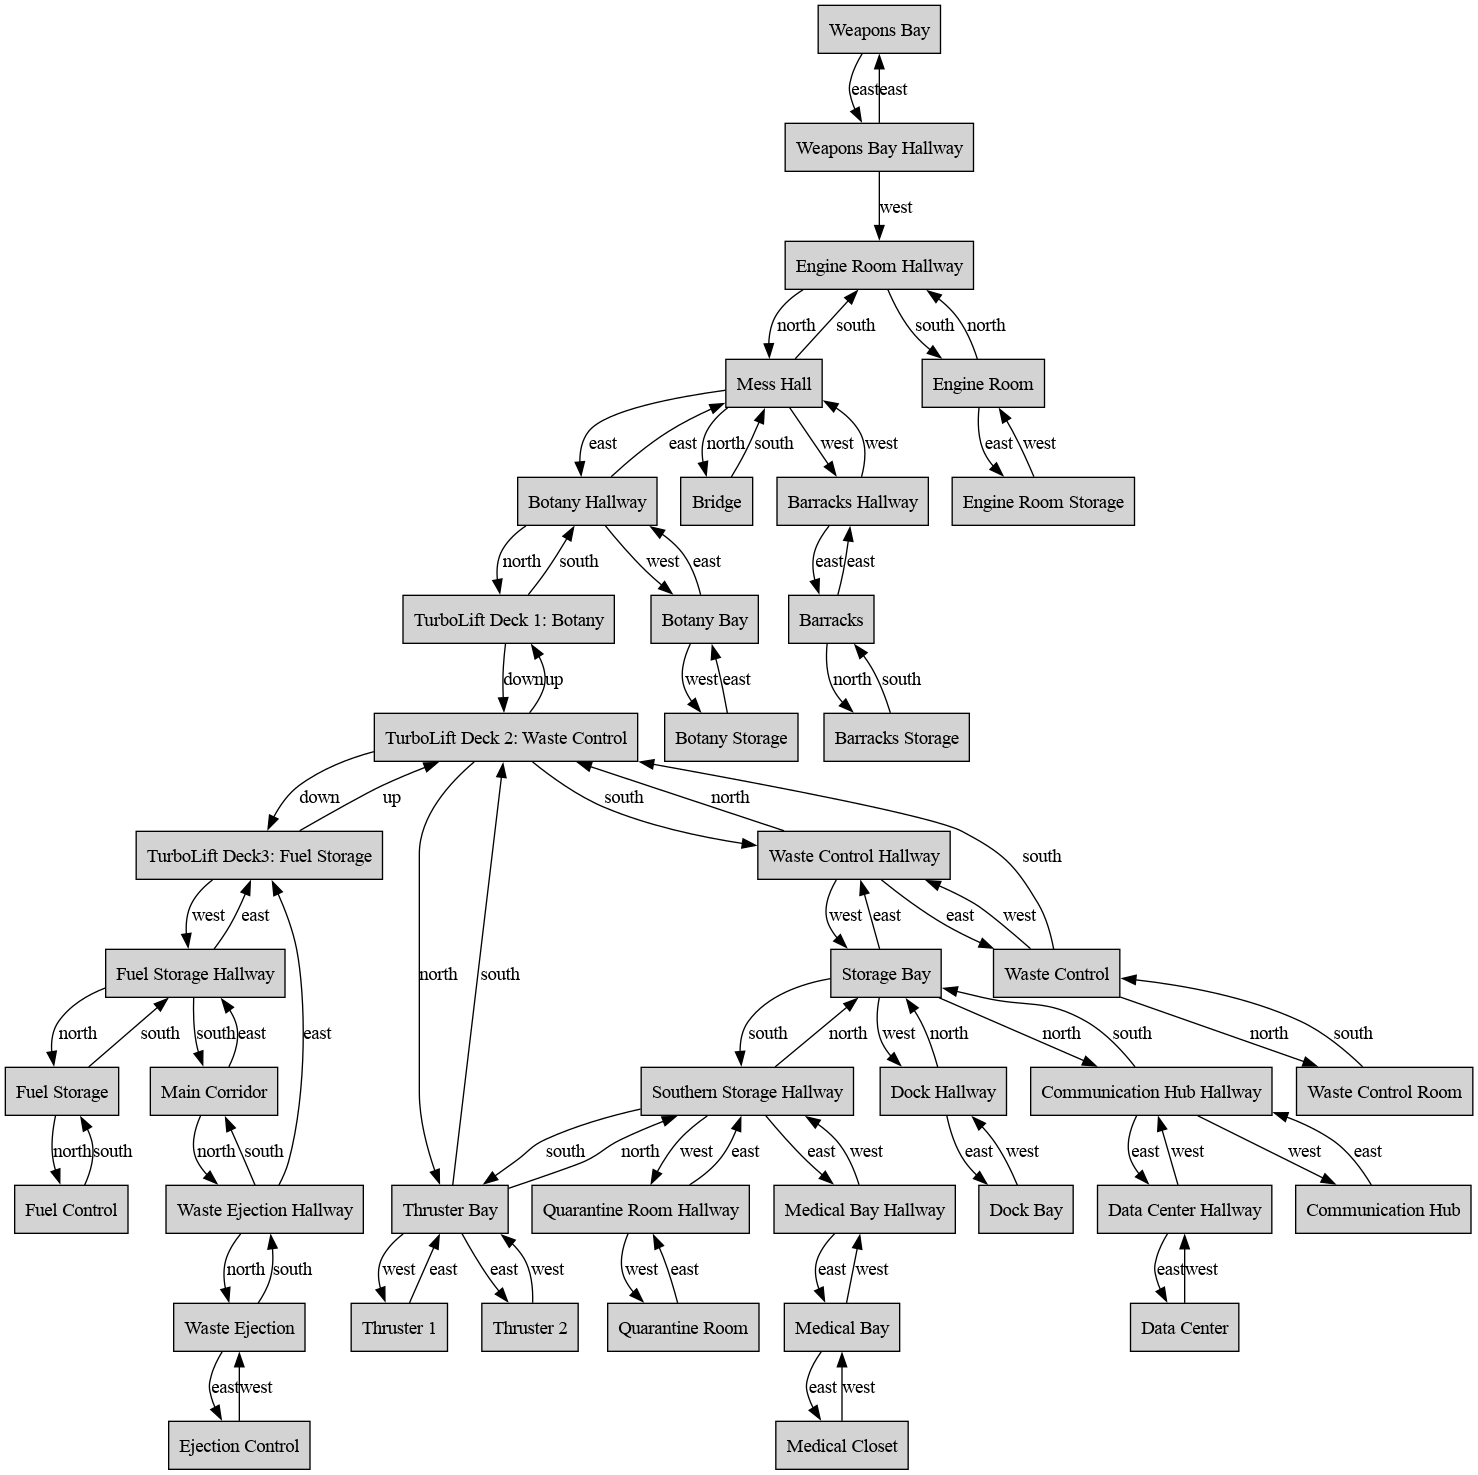
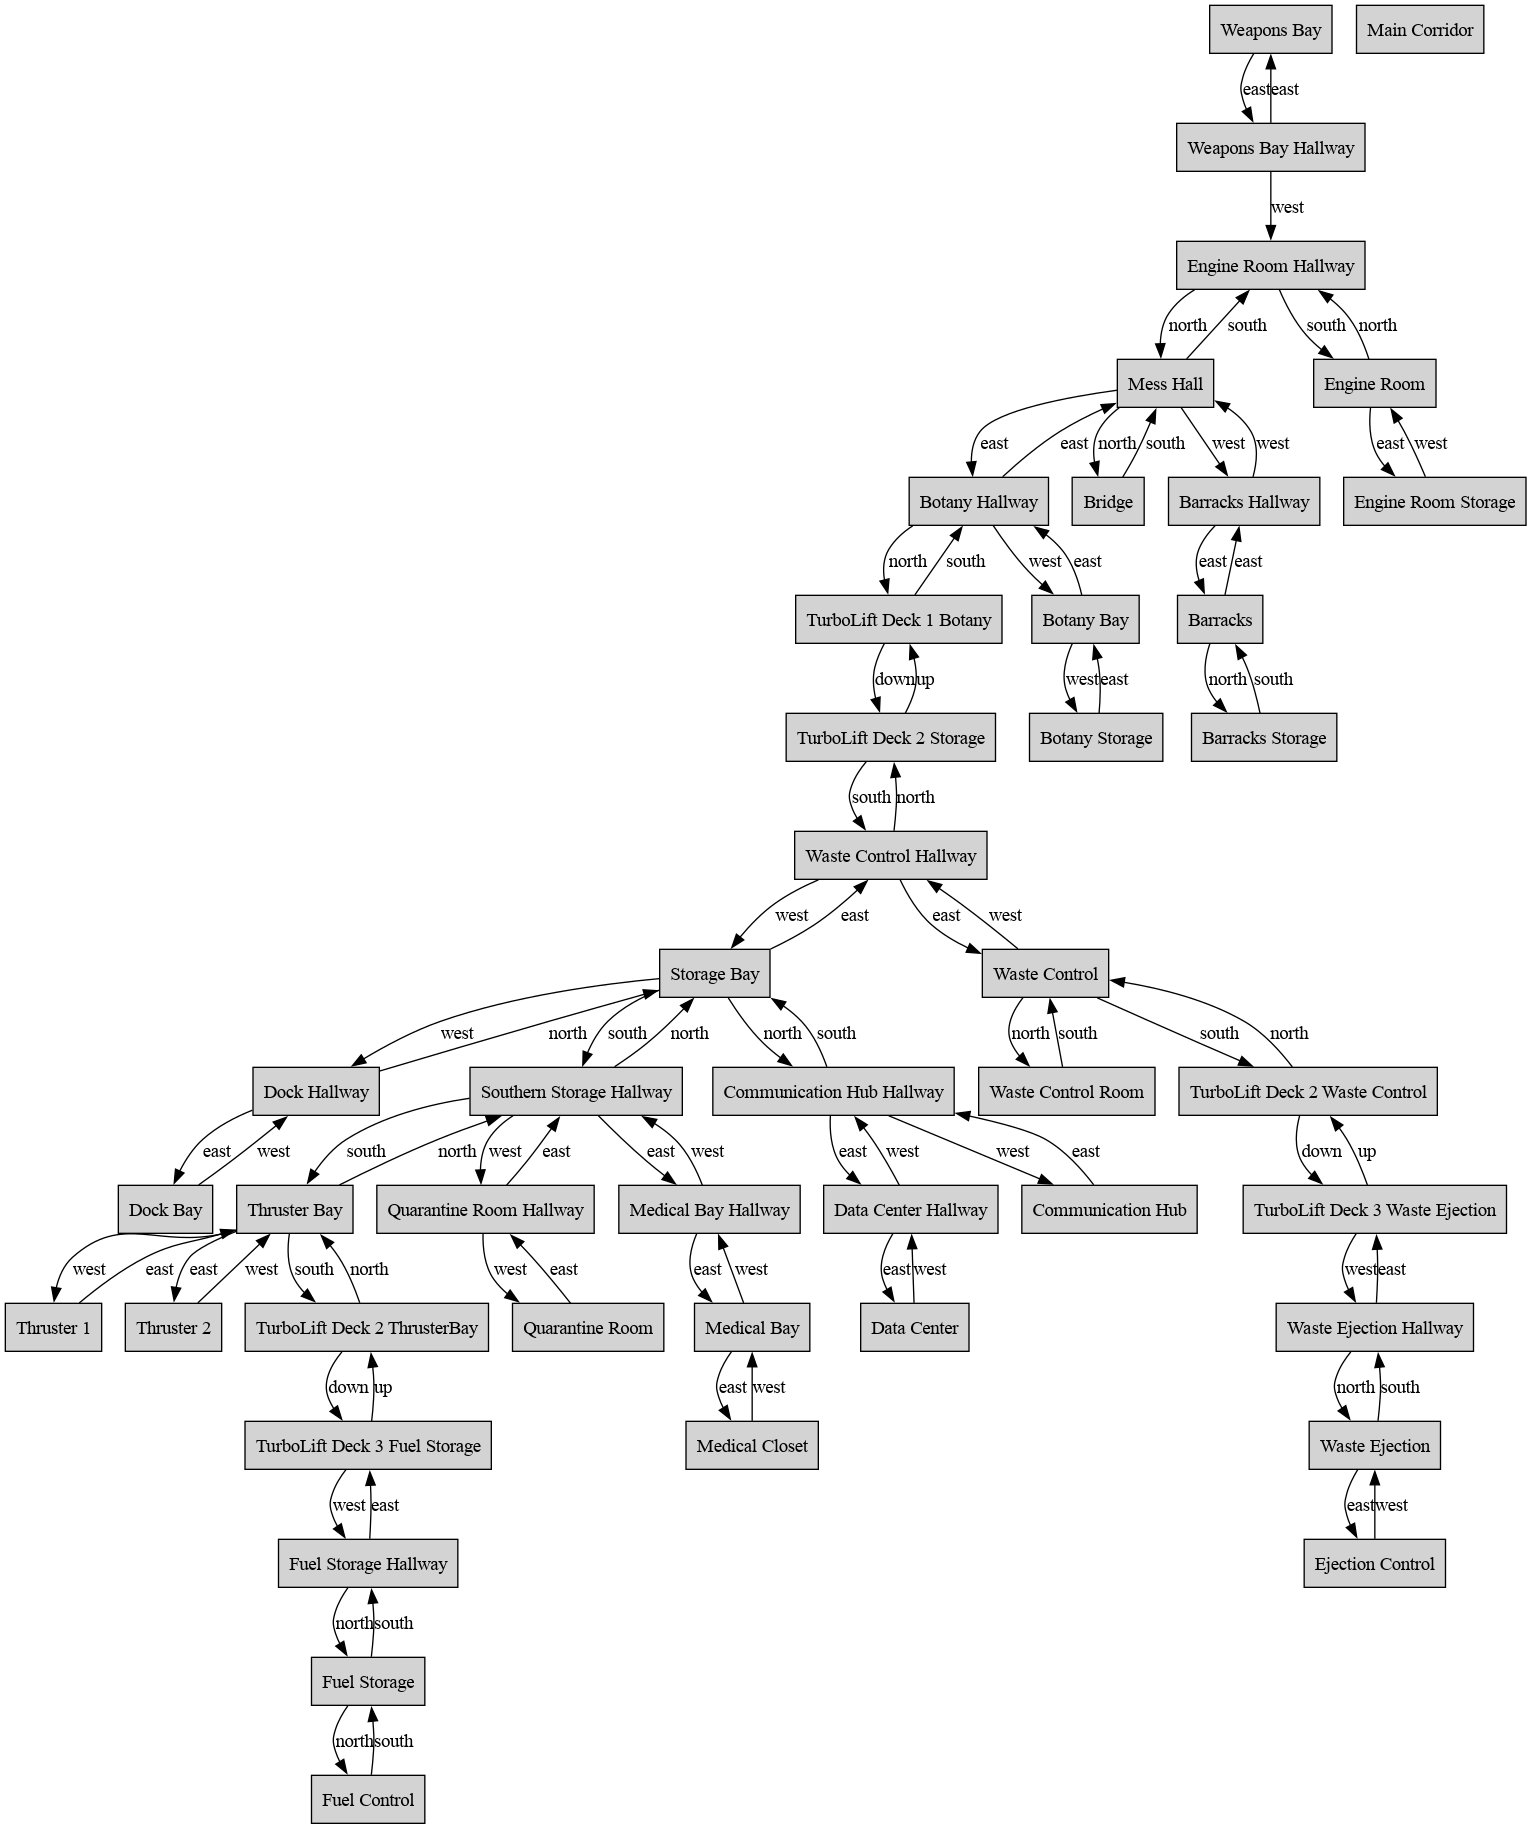
name fix

Changed region(s): [[0.0, 0.0, 1.0, 0.998]]

diff --git a/src/main/java/text_adventure/World.java b/src/main/java/text_adventure/World.java
@@ -201,12 +201,12 @@ public class World {
 
         // Turbo lifts 
 
-        Room turboLiftDeck1hallwayBotany = createRoom("TurboLift Deck 1: Botany","TurboLift that goes down to the storage hallway on Deck 2", null);
-        Room turboLiftDeck2hallwayWaste = createRoom("TurboLift Deck 2: Storage", "Turbo lift that goes up to the botany hallway on Deck 1", null);
-        Room turboLiftDeck2ThrusterBay = createRoom("TurboLift Deck 2: ThrusterBay", "Turbo lift that goes down to Fuel Storage on Deck 3", null);
-        Room turboLiftDeck2WasteControl = createRoom("TurboLift Deck 2: Waste Control", "Turbo lift that goes down to Waste Ejection on Deck 3", null);
-        Room turboLiftDeck3FuelStorage = createRoom("TurboLift Deck 3: Fuel Storage", "Turbo lift that goes up to the Thruster bay on Deck 2", null);
-        Room turboLiftDeck3WasteEjection = createRoom("TurboLift Deck 3: Waste Ejection", "Turbo lift that goes up to Waste Control on Deck 2", null);
+        Room turboLiftDeck1hallwayBotany = createRoom("TurboLift Deck 1 Botany","TurboLift that goes down to the storage hallway on Deck 2", null);
+        Room turboLiftDeck2hallwayWaste = createRoom("TurboLift Deck 2 Storage", "Turbo lift that goes up to the botany hallway on Deck 1", null);
+        Room turboLiftDeck2ThrusterBay = createRoom("TurboLift Deck 2 ThrusterBay", "Turbo lift that goes down to Fuel Storage on Deck 3", null);
+        Room turboLiftDeck2WasteControl = createRoom("TurboLift Deck 2 Waste Control", "Turbo lift that goes down to Waste Ejection on Deck 3", null);
+        Room turboLiftDeck3FuelStorage = createRoom("TurboLift Deck 3 Fuel Storage", "Turbo lift that goes up to the Thruster bay on Deck 2", null);
+        Room turboLiftDeck3WasteEjection = createRoom("TurboLift Deck 3 Waste Ejection", "Turbo lift that goes up to Waste Control on Deck 2", null);
 
 
         // Floor 1 connections (N, S, E, W)
@@ -234,7 +234,6 @@ public class World {
 
         dataCenter.setExits(null, null, null , hallwayData);
         hallwayData.setExits(null, null, dataCenter, hallwayCommunication);
-
         medicalBay.setExits(null, null, medicalCloset, hallwayMedical);
         medicalCloset.setExits(null, null, null, medicalBay);
         hallwayMedical.setExits(null, null, medicalBay , hallwayStorage);

diff --git a/src/test/java/Deck3TraversalTest.java b/src/test/java/Deck3TraversalTest.java
@@ -52,7 +52,7 @@ public class Deck3TraversalTest {
     public void testFuelStorageLiftStartingLocation() {
         navigateToFuelStorageLift();
         Room currentRoom = player.getCurrentLocation();
-        assertEquals("TurboLift Deck 3: Fuel Storage", currentRoom.getName());
+        assertEquals("TurboLift Deck 3 Fuel Storage", currentRoom.getName());
     }
 
     // Test starting position at Waste Ejection TurboLift
@@ -60,7 +60,7 @@ public class Deck3TraversalTest {
     public void testWasteEjectionLiftStartingLocation() {
         navigateToWasteEjectionLift();
         Room currentRoom = player.getCurrentLocation();
-        assertEquals("TurboLift Deck 3: Waste Ejection", currentRoom.getName());
+        assertEquals("TurboLift Deck 3 Waste Ejection", currentRoom.getName());
     }
 
     // Test path from Fuel Storage TurboLift to Fuel Storage
@@ -150,7 +150,7 @@ public class Deck3TraversalTest {
         game.runCommands("go south"); // To Hallway Fuel
         game.runCommands("go east"); // Back to TurboLift
         Room currentRoom = player.getCurrentLocation();
-        assertEquals("TurboLift Deck 3: Fuel Storage", currentRoom.getName());
+        assertEquals("TurboLift Deck 3 Fuel Storage", currentRoom.getName());
     }
 
     @Test
@@ -159,6 +159,6 @@ public class Deck3TraversalTest {
         game.runCommands("go south"); // To Hallway Ejection
         game.runCommands("go east"); // Back to TurboLift
         Room currentRoom = player.getCurrentLocation();
-        assertEquals("TurboLift Deck 3: Waste Ejection", currentRoom.getName());
+        assertEquals("TurboLift Deck 3 Waste Ejection", currentRoom.getName());
     }
 }

diff --git a/src/test/java/Deck1TraversalTest.java b/src/test/java/Deck1TraversalTest.java
@@ -501,7 +501,7 @@ public class Deck1TraversalTest {
          Room currentRoom = player.getCurrentLocation();
 
          // Check exits
-         assertEquals("TurboLift Deck 1: Botany", currentRoom.getExit(Directions.NORTH).getName());
+         assertEquals("TurboLift Deck 1 Botany", currentRoom.getExit(Directions.NORTH).getName());
          assertNull("South exit should be null", currentRoom.getExit(Directions.SOUTH));
          assertEquals("Mess Hall", currentRoom.getExit(Directions.EAST).getName());
          assertEquals("Botany Bay", currentRoom.getExit(Directions.WEST).getName());
@@ -646,7 +646,7 @@ public class Deck1TraversalTest {
          Room currentRoom = player.getCurrentLocation();
 
          // Check exits
-         assertEquals("TurboLift Deck 1: Botany", currentRoom.getExit(Directions.NORTH).getName());
+         assertEquals("TurboLift Deck 1 Botany", currentRoom.getExit(Directions.NORTH).getName());
          assertNull("South exit should be null", currentRoom.getExit(Directions.SOUTH));
          assertEquals("Mess Hall", currentRoom.getExit(Directions.EAST).getName());
          assertEquals("Botany Bay", currentRoom.getExit(Directions.WEST).getName());
@@ -822,6 +822,6 @@ public class Deck1TraversalTest {
         game.runCommands("go east"); // To Botany Hallway
         game.runCommands("go north"); // To Turbolift
         Room currentRoom = player.getCurrentLocation();
-        assertEquals("TurboLift Deck 1: Botany", currentRoom.getName());
+        assertEquals("TurboLift Deck 1 Botany", currentRoom.getName());
     }
  }

diff --git a/src/main/java/text_adventure/objects/RoomVisualizer.java b/src/main/java/text_adventure/objects/RoomVisualizer.java
@@ -22,7 +22,7 @@ public class RoomVisualizer {
     }
     
     public void addRoom(Room room) {
-        String roomId = room.getName().replaceAll("\\s+", "_");
+        String roomId = room.getName().replaceAll("[\\s:;.-]+", "_");
         dot.append(String.format("    %s [label=\"%s\"];\n", 
                    roomId, room.getName()));
         
@@ -37,8 +37,8 @@ public class RoomVisualizer {
     
     private void addConnection(Room from, Room to, String direction) {
         if (to != null) {
-            String fromId = from.getName().replaceAll("\\s+", "_");
-            String toId = to.getName().replaceAll("\\s+", "_");
+            String fromId = from.getName().replaceAll("[\\s:;.-]+", "_");
+            String toId = to.getName().replaceAll("[\\s:;.-]+", "_");
             dot.append(String.format("    %s -> %s [label=\"%s\"];\n", 
                        fromId, toId, direction));
         }

diff --git a/src/test/java/Deck2TraversalTest.java b/src/test/java/Deck2TraversalTest.java
@@ -28,7 +28,7 @@ public class Deck2TraversalTest {
     @Test
     public void testStartingLocation() {
         Room currentRoom = player.getCurrentLocation();
-        assertEquals("TurboLift Deck 2: Storage", currentRoom.getName());
+        assertEquals("TurboLift Deck 2 Storage", currentRoom.getName());
     }
 
     // Test path to Storage Bay
@@ -173,6 +173,6 @@ public class Deck2TraversalTest {
         game.runCommands("go east"); // Back to Hallway Waste
         game.runCommands("go north"); // Back to TurboLift
         Room currentRoom = player.getCurrentLocation();
-        assertEquals("TurboLift Deck 2: Storage", currentRoom.getName());
+        assertEquals("TurboLift Deck 2 Storage", currentRoom.getName());
     }
 }
